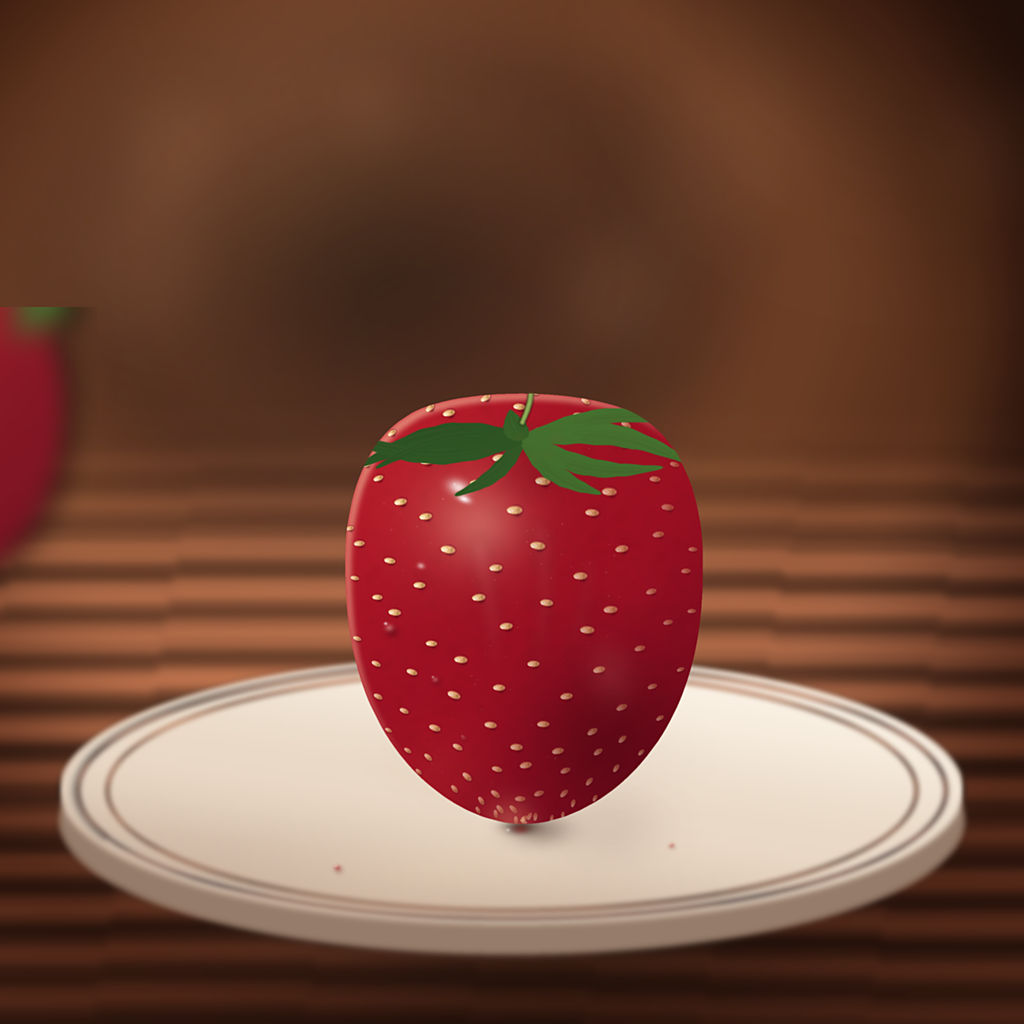
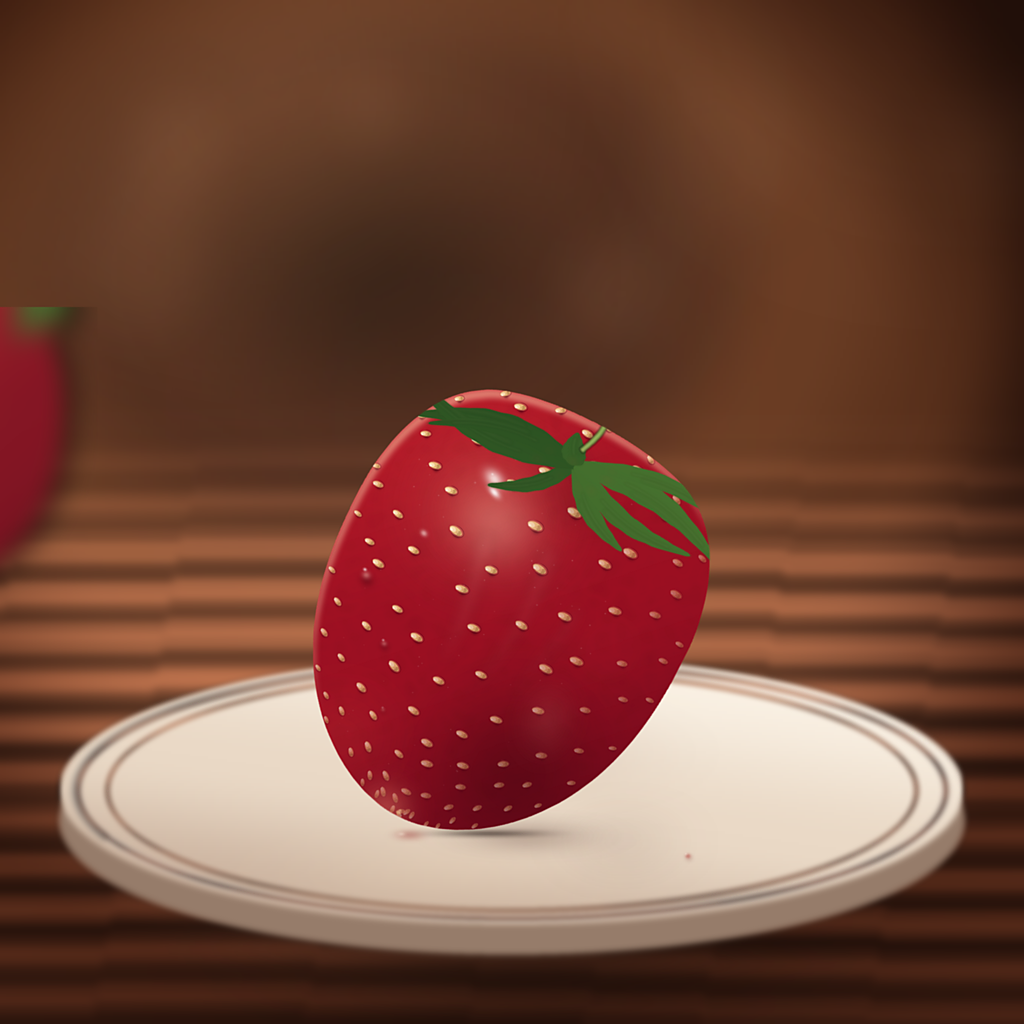
Render: sharper specular, irregular seeds, tighter contact shadow

diff --git a/render.py b/render.py
@@ -830,58 +830,61 @@ def build():
         ImageFilter.GaussianBlur(2.6 * SS)))
 
     hero_img = hero()
-    hw = CW * 0.352
+    hw = CW * 0.360
     hh = hw * hero_img.height / hero_img.width
     hero_img = hero_img.resize((int(hw), int(hh)), Image.LANCZOS)
+    # a strawberry cannot stand on its point: tip it over so it lies on the
+    # plate with the shoulder and the tip both in contact
+    hero_img = hero_img.rotate(-27, resample=Image.BICUBIC, expand=True)
+    hero_img = hero_img.crop(hero_img.getbbox())
 
-    hx = CW * 0.500 - hero_img.width / 2 + CW * 0.012
-    # tip rests just in front of the plate's centre line, so contact is visible
-    tip_y = CH * 0.806
+    tip_y = CH * 0.812
+    hx = CW * 0.500 - hero_img.width / 2
     hy = tip_y - hero_img.height
 
-    # ambient occlusion: hard core at the contact, penumbra falling to the
-    # lower right (away from the upper-left key)
+    # Contact shadow. Real grounding needs three things at once: a hard,
+    # tight core that touches the tip, a soft penumbra falling away from the
+    # key, and no lightness gap between the two.
+    # the berry lies along the plate, so the contact patch is long and low:
+    # a hard core under the whole footprint, penumbra thrown to the right
+    common_x = hx + hero_img.width * 0.44
     canvas = Image.alpha_composite(canvas, blob(
-        (CW, CH), (hx + hero_img.width * 0.49, tip_y + CH * 0.002),
-        (hero_img.width * 0.105, CH * 0.0125),
-        (20, 6, 4), peak=250, blur=3.5 * SS, falloff=1.25))
+        (CW, CH), (common_x + hero_img.width * 0.10, tip_y + CH * 0.0045),
+        (hero_img.width * 0.395, CH * 0.0135),
+        (46, 13, 8), peak=190, blur=10 * SS, falloff=1.45))
     canvas = Image.alpha_composite(canvas, blob(
-        (CW, CH), (hx + hero_img.width * 0.545, tip_y + CH * 0.004),
-        (hero_img.width * 0.190, CH * 0.020),
-        (40, 12, 8), peak=205, blur=9 * SS, falloff=1.35))
+        (CW, CH), (hx + hero_img.width * 0.78, tip_y + CH * 0.0100),
+        (hero_img.width * 0.300, CH * 0.0240),
+        (58, 24, 14), peak=92, blur=24 * SS, falloff=1.4))
     canvas = Image.alpha_composite(canvas, blob(
-        (CW, CH), (hx + hero_img.width * 0.735, tip_y + CH * 0.002),
-        (hero_img.width * 0.330, CH * 0.028),
-        (56, 22, 13), peak=110, blur=22 * SS, falloff=1.4))
+        (CW, CH), (common_x, tip_y + CH * 0.0022),
+        (hero_img.width * 0.300, CH * 0.0050),
+        (16, 5, 3), peak=246, blur=2.2 * SS, falloff=1.15))
 
     canvas.alpha_composite(hero_img, (int(hx), int(hy)))
 
-    # glaze pooling in the tiny gap between tip and plate: this single detail
-    # is what makes the fruit read as sitting in liquid, not hovering
-    for (fx, fy, rx_, ry_, col, pk) in (
-            (0.49, 0.004, 0.055, 0.0075, (150, 26, 24), 190),
-            (0.44, 0.006, 0.026, 0.0045, (240, 196, 172), 120)):
-        canvas = Image.alpha_composite(canvas, blob(
-            (CW, CH), (hx + hero_img.width * fx, tip_y + CH * fy),
-            (hero_img.width * rx_, CH * ry_), col, peak=pk,
-            blur=2.2 * SS, falloff=1.5))
+    # glaze that has run off the fruit and pooled on the plate
+    px_pool = hx + hero_img.width * 0.245
     canvas = Image.alpha_composite(canvas, blob(
-        (CW, CH), (hx + hero_img.width * 0.455, tip_y + CH * 0.005),
-        (hero_img.width * 0.013, CH * 0.0028), (255, 250, 240), peak=235,
-        blur=0.9 * SS, falloff=1.4))
+        (CW, CH), (px_pool, tip_y + CH * 0.0035),
+        (hero_img.width * 0.085, CH * 0.0068), (142, 22, 21), peak=180,
+        blur=3.0 * SS, falloff=1.5))
+    canvas = Image.alpha_composite(canvas, blob(
+        (CW, CH), (px_pool - hero_img.width * 0.020, tip_y + CH * 0.0026),
+        (hero_img.width * 0.020, CH * 0.0026), (255, 240, 224), peak=205,
+        blur=1.1 * SS, falloff=1.4))
 
-    # two stray juice drops on the plate
-    for (fx, fy, r) in ((0.330, 0.848, 0.0074), (0.656, 0.826, 0.0052)):
-        cx, cy, rr = CW * fx, CH * fy, CW * r
-        canvas = Image.alpha_composite(canvas, blob(
-            (CW, CH), (cx + rr * 0.2, cy + rr * 0.3), (rr * 1.15, rr * 0.9),
-            (92, 12, 16), peak=120, blur=2.4 * SS, falloff=1.5))
-        canvas = Image.alpha_composite(canvas, blob(
-            (CW, CH), (cx, cy), (rr * 1.15, rr * 0.92), (168, 30, 28), peak=170,
-            blur=1.4 * SS, falloff=1.7))
-        canvas = Image.alpha_composite(canvas, blob(
-            (CW, CH), (cx - rr * 0.24, cy - rr * 0.28), (rr * 0.38, rr * 0.30),
-            (255, 240, 228), peak=240, blur=0.8 * SS, falloff=1.4))
+    # one small juice drop, well clear of the fruit
+    cx, cy, rr = CW * 0.672, CH * 0.836, CW * 0.0062
+    canvas = Image.alpha_composite(canvas, blob(
+        (CW, CH), (cx + rr * 0.2, cy + rr * 0.34), (rr * 1.05, rr * 0.82),
+        (96, 14, 18), peak=118, blur=2.2 * SS, falloff=1.5))
+    canvas = Image.alpha_composite(canvas, blob(
+        (CW, CH), (cx, cy), (rr, rr * 0.80), (176, 34, 30), peak=178,
+        blur=1.2 * SS, falloff=1.7))
+    canvas = Image.alpha_composite(canvas, blob(
+        (CW, CH), (cx - rr * 0.26, cy - rr * 0.30), (rr * 0.34, rr * 0.26),
+        (255, 242, 230), peak=242, blur=0.7 * SS, falloff=1.4))
 
     flat = canvas.convert("RGB")
     flat = flat.filter(ImageFilter.GaussianBlur(0.45 * SS))
